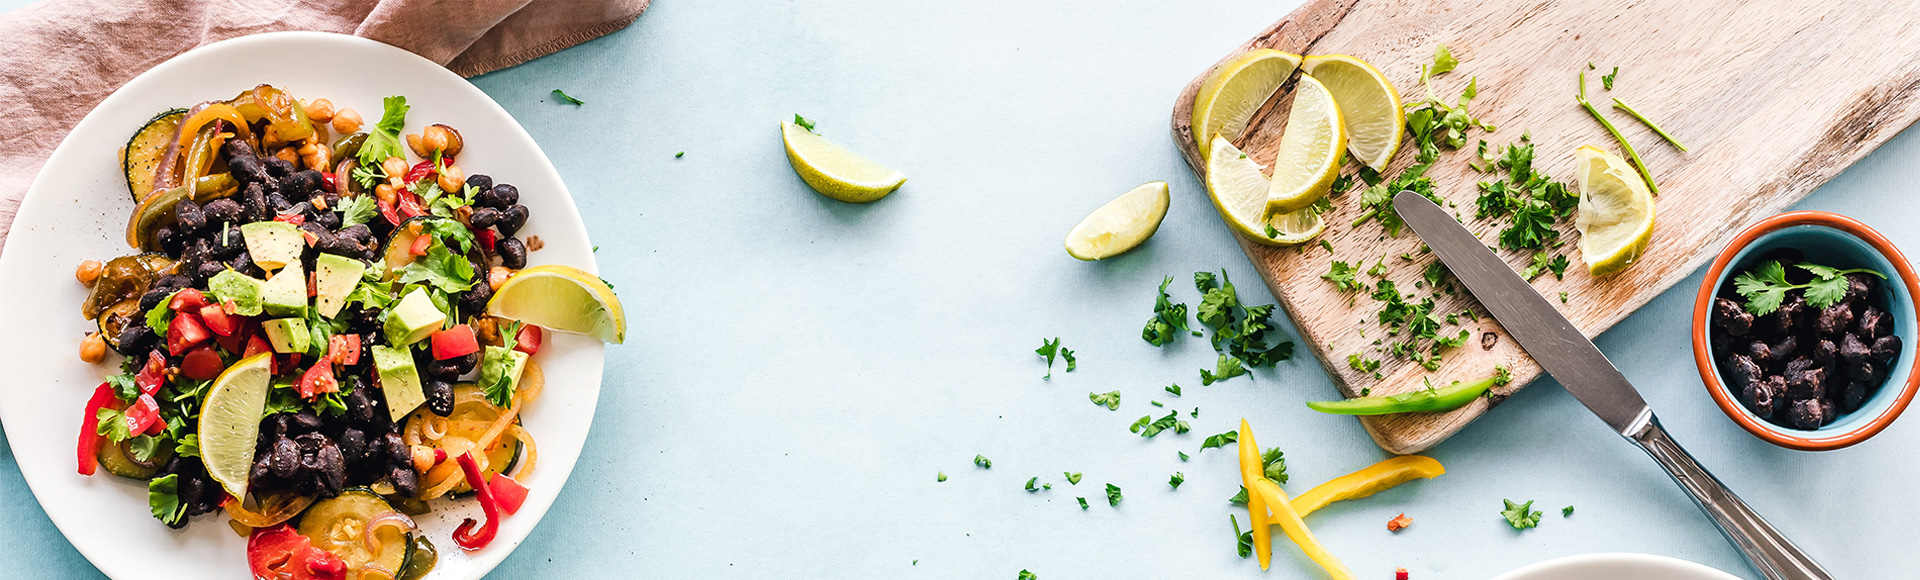
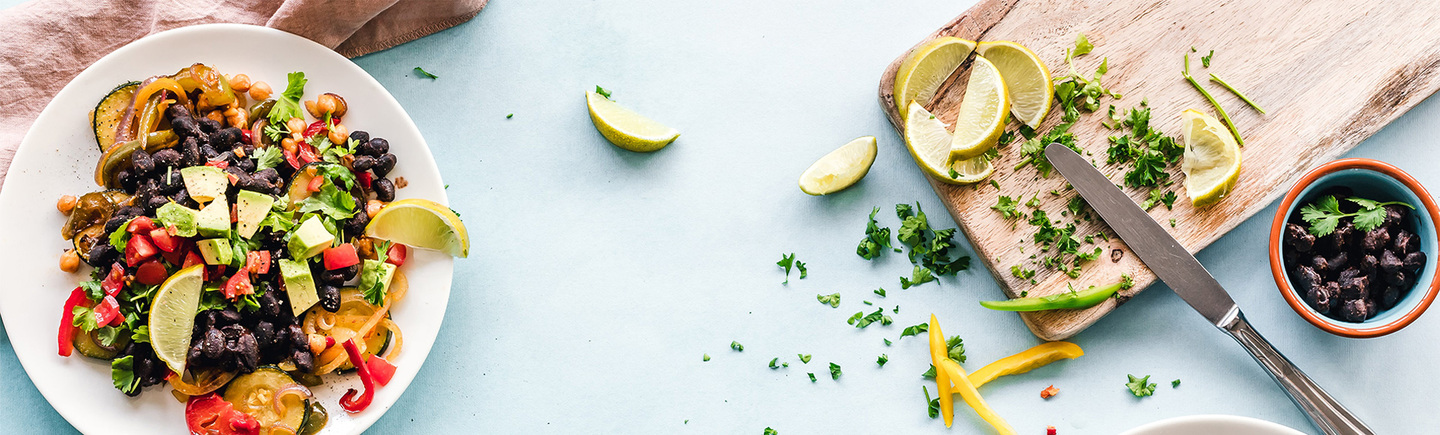
resize and compress img

diff --git a/static/css/scss/page/_order.scss b/static/css/scss/page/_order.scss
@@ -1,7 +1,7 @@
 /*  點餐  */
 .banner__order {
   height: 120px;
-  background: url(../../../img/order/banner.png) center/cover no-repeat;
+  background: url(../../../img/order/banner.jpg) center/cover no-repeat;
 }
 .section__hotsale {
   display: flex; 
